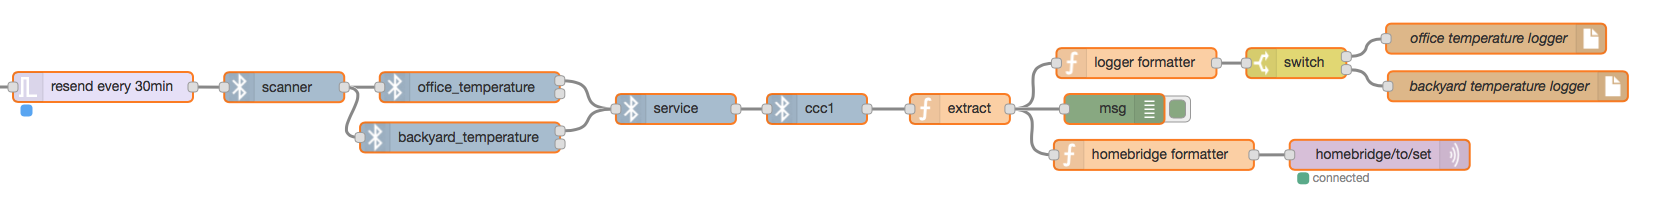
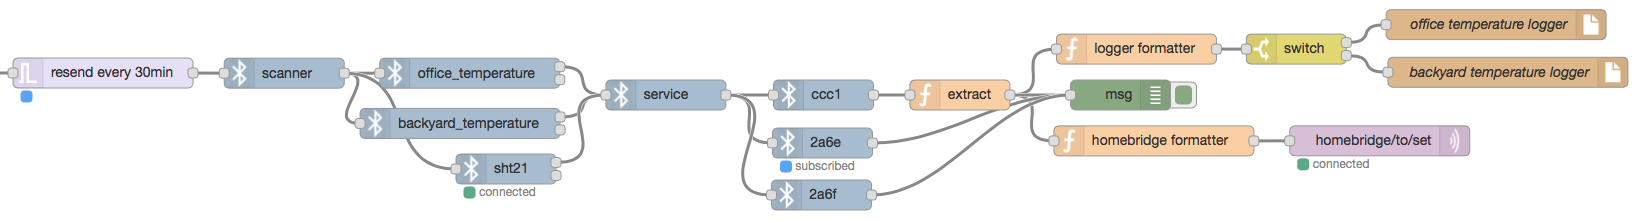
poke some more at noble's guts

diff --git a/ignoble-node.js b/ignoble-node.js
@@ -62,8 +62,16 @@ module.exports = function(RED) {
 				msg._name = config.name;
 			}
 
+			msg._peripheral = peripheral.id;
+
+			if (peripheral.state == 'connected') {
+				node.send([ msg, null ]);
+				return;
+			}
+
 			peripheral.connect(function(error) {
 				if (error) {
+					node.log(error);
 					node.status({ fill: "red", shape: "dot", text: "error connecting" });
 					node.send([ null, msg ]);
 					return;
@@ -89,7 +97,6 @@ module.exports = function(RED) {
 						node.send([ null, msg ]);
 						return;
 					}
-					msg._peripheral = peripheral.id;
 					node.send([ msg, null ]);
 				});
 
@@ -133,9 +140,9 @@ module.exports = function(RED) {
 					if (error) {
 						node.log(error);
 					}
-					msg._service = service;
-					msg._characteristics = characteristics;
-					node.send(msg);
+					var m = Object.assign({}, msg);
+					m._service = service.uuid;
+					node.send(m);
 					setTimeout(done, 500);
 				});
 			});
@@ -146,10 +153,6 @@ module.exports = function(RED) {
 	function CharacteristicNode(config) {
 		RED.nodes.createNode(this, config);
 		var node = this;
-		var search = [];
-		if (config.uuid && config.uuid != "") {
-			search.push(config.uuid);
-		}
 
 		node.on('input', function(msg) {
 			if (!msg._peripheral) {
@@ -163,11 +166,25 @@ module.exports = function(RED) {
 				return;
 			}
 
-			var service = msg._service;
-			if (!service) {
+			if (!msg._service) {
 				node.status({ fill: "red", shape: "dot", text: "expecting service in payload" });
 				return;
 			}
+
+			var service = noble._services[peripheral.id][msg._service];
+			if (!service) {
+				node.status({ fill: "red", shape: "dot", text: "expecting service in noble" });
+				return;
+			}
+
+			var characteristic = noble._characteristics[peripheral.id][msg._service][config.uuid];
+			if (!characteristic) {
+				return;
+			}
+
+			peripheral.once('disconnect', function() {
+				node.status({});
+			});
 
 			function sendPayload(data) {
 				var payload = {};
@@ -176,26 +193,21 @@ module.exports = function(RED) {
 					payload.dataInt = data.readInt32LE();
 					payload.dataFloat = data.readFloatLE();
 				}
+				msg._characteristic = characteristic.uuid;
 				msg.payload = payload;
 				node.send(msg);
 			}
 
-			function subscribeCharacteristic(characteristic, done) {
+			function subscribe() {
 				if (characteristic.properties.join('').indexOf('notify') < 0) {
-					done();
 					return;
 				}
 
 				node.status({ fill: "green", shape: "dot", text: "subscribing" });
 
-				peripheral.once('disconnect', function() {
-					node.status({});
-				});
-
 				characteristic.subscribe(function(error) {
 					if (error) {
 						node.status({ fill: "red", shape: "dot", text: "error subscribing" });
-						done();
 						return;
 					}
 					characteristic.on('data', function(data, isNotification) {
@@ -207,16 +219,11 @@ module.exports = function(RED) {
 						node.status({ fill: "blue", shape: "dot", text: "subscribed" });
 						sendPayload(data);
 					});
-
-					done();
-
-					node.log("done subscribing to " + peripheral.address);
 				});
 			}
 
-			function readCharacteristic(characteristic, done) {
+			function read() {
 				if (characteristic.properties.join('').indexOf('read') < 0) {
-					done();
 					return;
 				}
 
@@ -225,27 +232,20 @@ module.exports = function(RED) {
 				characteristic.read(function(error, data) {
 					if (error) {
 						node.status({ fill: "red", shape: "dot", text: "error reading" });
-						done();
 						return;
 					}
 
 					sendPayload(data);
-					setTimeout(done, 500);
-
-					node.log("done reading from " + peripheral.address);
+					node.status({});
 				});
 			}
 
-			async.filter(msg._characteristics,
-				function(characteristic, done) {
-					done(null, !config.uuid || config.uuid && characteristic.uuid === config.uuid);
-				},
-				function(error, characteristics) {
-					async.eachSeries(characteristics, config.subscribe? subscribeCharacteristic : readCharacteristic, function() {
-						node.status({});
-					});
-				}
-			);
+			if (config.subscribe) {
+				subscribe();
+			}
+			else {
+				read();
+			}
 		});
 	}
 	RED.nodes.registerType('characteristic', CharacteristicNode);
@@ -253,10 +253,6 @@ module.exports = function(RED) {
 	function WCharacteristicNode(config) {
 		RED.nodes.createNode(this, config);
 		var node = this;
-		var search = [];
-		if (config.uuid && config.uuid != "") {
-			search.push(config.uuid);
-		}
 
 		node.on('input', function(msg) {
 			if (!msg._peripheral) {
@@ -270,42 +266,36 @@ module.exports = function(RED) {
 				return;
 			}
 
-			var service = msg._service;
-			if (!service) {
+			if (!msg._service) {
 				node.status({ fill: "red", shape: "dot", text: "expecting service in payload" });
 				return;
 			}
 
-			function writeCharacteristic(characteristic, done) {
-				if (characteristic.properties.join('').indexOf('write') < 0) {
-					done();
-					return;
-				}
-
-				node.status({ fill: "green", shape: "dot", text: "writing" });
-
-				var data = Buffer.from(msg.payload);
-				characteristic.write(data, false, function(error) {
-					if (error) {
-						node.status({ fill: "red", shape: "dot", text: "error writing" });
-						done();
-						return;
-					}
-					setTimeout(done, 500);
-					node.log("done writing to " + peripheral.address);
-				});
+			var service = noble._services[peripheral.id][msg._service];
+			if (!service) {
+				node.status({ fill: "red", shape: "dot", text: "expecting service in noble" });
+				return;
 			}
 
-			async.filter(msg._characteristics,
-				function(characteristic, done) {
-					done(null, !config.uuid || config.uuid && characteristic.uuid === config.uuid);
-				},
-				function(error, characteristics) {
-					async.eachSeries(characteristics, writeCharacteristic, function() {
-						node.status({});
-					});
+			var characteristic = noble._characteristics[peripheral.id][msg._service][config.uuid];
+			if (!characteristic) {
+				return;
+			}
+
+			if (characteristic.properties.join('').indexOf('write') < 0) {
+				return;
+			}
+
+			node.status({ fill: "green", shape: "dot", text: "writing" });
+
+			var data = Buffer.from(msg.payload);
+			characteristic.write(data, false, function(error) {
+				if (error) {
+					node.status({ fill: "red", shape: "dot", text: "error writing" });
+					return;
 				}
-			);
+				node.status({});
+			});
 		});
 	}
 	RED.nodes.registerType('characteristic out', WCharacteristicNode);

diff --git a/ignoble-node.html b/ignoble-node.html
@@ -149,7 +149,8 @@
 				value: ""
 			},
 			uuid: {
-				value: ""
+				value: "",
+				required: true
 			},
 			subscribe: {
 				value: false
@@ -180,7 +181,27 @@
 </script>
 
 <script type="text/x-red" data-help-name="characteristic">
-    <p>A BLE node that matches a service's characteristic by UUID.  Hook this up to a service! Remember, if you subscribe to a characteristic, it's helpful to set the peripheral timeout to 0!</p>
+    <p>A BLE node that matches a service's characteristic by UUID</p>
+
+    <h3>Inputs</h3>
+        <dl class="message-properties">
+            <dt>payload <span class="property-type">object</span>
+            </dt>
+            <dd> the output of a service node</dd>
+        </dl>
+    <h3>Outputs</h3>
+        <ol class="node-ports">
+	    <li>
+                <dl class="message-properties">
+		    <dt />
+                    <dd> this port is called when the characteristic has been read</dd>
+                </dl>
+            </li>
+        </ol>
+    <h3>Details</h3>
+	<p>Hook this up to a service!</p>
+	<p>If the characteristic is notifiable then <code>subscribe</code> to it and don't forget to set the peripheral timeout to 0.</p>
+	<p>Use the output port to daisy chain <code>characteristic</code> nodes so they can be read sequentially.</p>
 </script>
 
 <script type="text/javascript">

diff --git a/README.md b/README.md
@@ -25,7 +25,7 @@ Connect a characteristic node to the service node.  This node will let you fish 
 After the characteric node has run, msg.payload will contain its data - this can be shunted to other nodes like MQTT, Twitter or a debug node.
 
 ## Example
-An example flow of two temperature sensors being polled every 30 minutes and characteristics exposed over Homebridge/MQTT.
+An example flow of two temperature sensors being polled every 30 minutes and characteristics exposed over Homebridge/MQTT.  A third SHT21 sensor will push its temperature (2a6e) when the characteristic changes.
 
 ![alt text](./example-poll.png "example poll flow")
 
